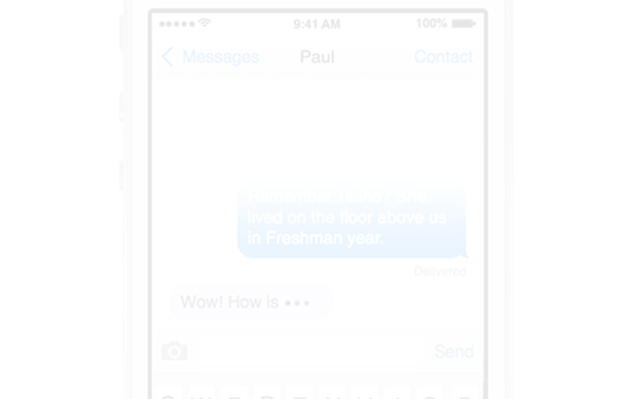
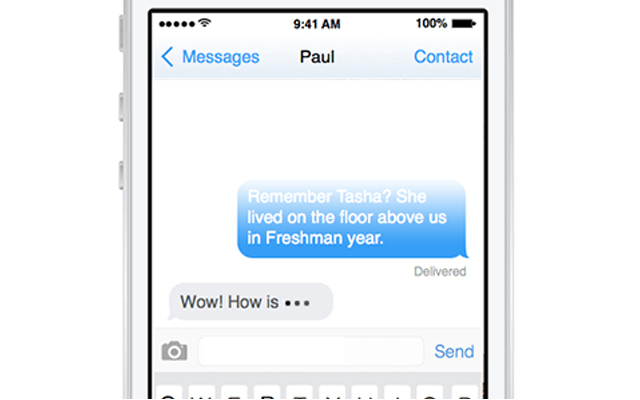
mostly done

Changed region(s): [[0.1875, 0.0, 0.8125, 1.0], [0.2812, 0.72, 0.5, 0.78], [0.4688, 0.12, 0.5312, 0.18]]

diff --git a/index.html b/index.html
@@ -21,6 +21,7 @@
 	<!-- start-smooth-scrolling -->
 		<script type="text/javascript" src="js/move-top.js"></script>
 		<script type="text/javascript" src="js/easing.js"></script>
+		<script type="text/javascript" src="js/jquery.waypoints.min.js"></script>
 		<script type="text/javascript">
 			jQuery(document).ready(function($) {
 				$(".scroll").click(function(event){		
@@ -67,8 +68,8 @@
 					</div> 
 				</div>       	  
 			</div>
-			<!---start-click-drop-down-menu----->
-			        <!----start-dropdown--->
+			<!-- start-click-drop-down-menu -->
+			        <!-- start-dropdown --->
 			         <script type="text/javascript">
 						var $ = jQuery.noConflict();
 							$(function() {
@@ -90,18 +91,18 @@
 												
 						});
 					</script>
-			<!---//End-click-drop-down-menu----->
+			<!---//End-click-drop-down-menu-->
 			<div class="clearfix"> </div>
 		</div>
 		<div class="banner-info">
 			<div class="banner-left">
-				<img src="images/1.png" alt=""/>
+				<img class="profilepic faded" src="images/1.png" alt=""/>
 			</div>
-			<div class="banner-right">
+			<div class="banner-right faded">
 				<h1>HI, I'M ANDREW!</h1>
 				<div class="border"></div>
-				<h2>I am currently a 4th year student studying<br> Electronic and Information Engineering<br> at Imperial College London.</h2>
-				<a href="andrewli-cv.pdf">DOWNLOAD MY RESUME</a>
+				<h2 class="smallintro faded">I am currently a 4th year student studying<br> Electronic and Information Engineering<br> at Imperial College London.</h2>
+				<a class="topcv faded" href="andrewli-cv.pdf">DOWNLOAD MY RESUME</a>
 			</div>
 			<div class="clearfix"></div>
 		</div>
@@ -113,17 +114,17 @@
 <div class="about text-center" id="about">
 	<div class="container">
 		<div class="row">
-			<div class="col-md-5 about-title">
+			<div class="col-md-5 about-title faded">
 				<h3>ABOUT ME</h3>
 				<div class="strip text-center"><img src="images/about.png" alt=" "/></div>
 			</div>
-			<div class="col-md-7">
-				<p>I am an engineering student and avid techie. Born in Montreal, Canada, I grew up with a very international background having also lived in the San Francisco Bay Area and Beijing before moving to London to study at Imperial College London. With this, I am lucky to be able to have a network which spans the globe.</p>
-				<p>I am deeply passionate about everything that’s happening in the tech world! I am often found lost in discussion talking to my peers and colleagues about the impact of technology, what the future may look like, and the socialogical implications of technology. I am especially interested in the human-centric side of technology and its sociological effects.</p>
-				<p>Throughout my studies, I always strive to develop the skills required for the world of tomorrow, taking interest in courses such as <strong>machine learning, computer vision &amp pattern recognition, user-centered information systems, and human-centered robotics</strong>. I also aim to apply these skills by working on various group and personal projects in my spare time.</p>
-				<p>As an engineer, the phrase “knowledge is power” holds very true to my belief, as with knowledge, we are truly empowered by transforming abstract concepts and ideas into tangible reality. I believe that the endeavour of human ingenuity is something that holds true beauty, and aim to make use of my knowledge and experience to take part in shaping our fascinating world.</p>
-				<p>Interested in hiring me? Take a look at some of my work and experience bellow!</p>
-				<ul>
+			<div class="col-md-7 about-text">
+				<p class="faded">I am an engineering student and avid techie. Born in Montreal, Canada, I grew up with a very international background having also lived in the San Francisco Bay Area and Beijing before moving to London to study at Imperial College London. With this, I am lucky to be able to have a network which spans the globe.</p>
+				<p class="faded">I am deeply passionate about everything that’s happening in the tech world! I am often found lost in discussion talking to my peers and colleagues about the impact of technology, what the future may look like, and the socialogical implications of technology. I am especially interested in the human-centric side of technology and its sociological effects.</p>
+				<p class="faded">Throughout my studies, I always strive to develop the skills required for the world of tomorrow, taking interest in courses such as <strong>machine learning, computer vision &amp pattern recognition, user-centered information systems, and human-centered robotics</strong>. I also aim to apply these skills by working on various group and personal projects in my spare time.</p>
+				<p class="faded">As an engineer, the phrase “knowledge is power” holds very true to my belief, as with knowledge, we are truly empowered by transforming abstract concepts and ideas into tangible reality. I believe that the endeavour of human ingenuity is something that holds true beauty, and aim to make use of my knowledge and experience to take part in shaping our fascinating world.</p>
+				<p class="faded">Interested in hiring me? Take a look at some of my work and experience bellow!</p>
+				<ul class="socialmedia faded">
 					<li><a class="fb" href="https://www.facebook.com/andrewliyw"></a></li>
 					<li><a class="gh" href="https://github.com/al2114/"></a></li>
 					<li><a class="in" href="https://www.linkedin.com/in/andrew-li-2b372710b/"></a></li>
@@ -142,15 +143,15 @@
 <!--work-->
 <div class="gallery-section text-center" id="career">
 	<div class="container">
-		<div class="work-info">
+		<div class="work-info faded">
 			<h3>WORK EXPERIENCE</h3>
+			<div class="strip text-center"><img src="images/work.png" alt=" "/></div>
 		</div>
-		<div class="strip text-center"><img src="images/work.png" alt=" "/></div>
 		<div class="work-grids">
 			<!-- <div class="row"> -->
 				<div class="col-md-1 col-lg-1"><p></p></div>
 				<div class="col-md-5 col-lg-5">
-					<div class="work-grid">
+					<div class="work-grid faded">
 						<h3>2016 Summer</h3>
 						<div class="work-grid-info">
 							<a href="http://borqs.com/">
@@ -165,7 +166,7 @@
 					</div>
 				</div>
 				<div class="col-md-5 col-lg-5">
-					<div class="work-grid">
+					<div class="work-grid faded">
 						<h3>2017 Summer</h3>
 						<div class="work-grid-info">
 							<a href="http://en.cloudminds.com/">
@@ -189,13 +190,16 @@
 <!--portfolio-->
 <div class="work-experience text-center" id="projects">
 	<div class="container">
-		<h3>PROJECTS</h3>
-		<div class="strip text-center"><img src="images/port.png" alt=" "/></div>
-		<p>Bellow are some of my current and past projects I've worked on either as part of my course of studies, or in my own spare time. Hover over the images for slightly more detailed descriptions of each project. If you're interested in or would like to learn more about any of these works, feel free to contact me and I'd be happy to speak with you!</p>
+		<div class="projects-title faded">
+			<h3>PROJECTS</h3>
+			<div class="strip text-center"><img src="images/port.png" alt=" "/></div>
+		</div>
+
+		<p class="projects-desc faded">Bellow are some of my current and past projects I've worked on either as part of my course of studies, or in my own spare time. Hover over the images for slightly more detailed descriptions of each project. If you're interested in or would like to learn more about any of these works, feel free to contact me and I'd be happy to speak with you!</p>
 	</div>
 	<!-- <div class="projectlist container"> -->
 	<div class="project-list">
-		<div class="project-item">
+		<div class="project-item faded">
 			<div class="container">
 				<div class="col-md-5 project-title">
 					<h3>Luko.hi</h3>
@@ -211,7 +215,7 @@
 				</div>
 			</div>
 		</div>
-		<div class="project-item">
+		<div class="project-item faded">
 			<div class="container">
 				<div class="col-md-7 project-desc">
 					<div class="project-desc-container">
@@ -227,7 +231,7 @@
 				</div>
 			</div>
 		</div>
-		<div class="project-item">
+		<div class="project-item faded">
 			<div class="container">
 				<div class="col-md-5 project-title">
 					<h3>Eurobot 2017</h3>
@@ -238,7 +242,7 @@
 					<div class="project-desc-container">
 						<p style="font-size: 14px; color: #121212; padding:0px 15px 0px 15px">
 
-							I took part in this year's Eurobot competition as a member of the Imperial College Robotic Society team. Eurobot is an annual competition where teams from universities across Europe build robots to compete autonomously against each other in a task-based arena, with points award for completing different tasks within the arena's boundaries. This year, the competition's theme was Moon Village, and the primary task involved gathering and collecting various "lunar objects" within the provided time limit. We decided to challenge ourselves by creating an omnidirectional robot using three omni wheels. The robot utilises a combination of RaspberryPis, Arduinos, and mbeds to drive its various functions including motor control, arm control, localisation, path planning and collision detection. Our robot uses odometry data, computer vision triangulation (using chilitag beacons) and kalman filtering to provide localisation information, which it makes use of to navigate throughout the arena. Utilising a three-wheel omnidirectional drive proved to be challenging, and even after a lot of effort put into tuning motor controllers, still resulted in suboptimal motion when compared to many of the other robots. Nonetheless, using three-wheeled omnidirectional drive had never been seen before on the competition, and our implementation garnered quite a decent amount of interest during the event.
+							I participated in this year's Eurobot competition as a member of the Imperial College Robotic Society team. Eurobot is an annual competition where teams from universities across Europe build robots to compete autonomously against each other by completing tasks and scoring points in a time-limited arena environment. This year, the competition's theme was Moon Village, and the primary task involved gathering and collecting various "lunar objects" within the provided time limit. We decided to challenge ourselves by creating an omnidirectional robot using three omni wheels. The robot utilises a combination of RaspberryPis, Arduinos, and mbeds to drive its various functions including motor control, arm control, localisation, path planning and collision detection. Our robot uses odometry data, computer vision triangulation (using chilitag beacons) and kalman filtering to provide localisation information, which it makes use of to navigate throughout the arena. Utilising a three-wheel omnidirectional drive proved to be challenging, and even after a lot of effort put into tuning motor controllers, still resulted in suboptimal motion when compared to many of the other robots. Nonetheless, using three-wheeled omnidirectional drive had never been seen before on the competition, and our implementation garnered quite a decent amount of interest during the event.
 
 						</p>
 					</div>
@@ -246,7 +250,7 @@
 				</div>
 			</div>
 		</div>
-		<div class="project-item">
+		<div class="project-item faded">
 			<div class="container">
 				<div class="col-md-7 project-desc">
 					<div class="project-desc-container">
@@ -262,7 +266,7 @@
 				</div>
 			</div>
 		</div>
-		<div class="project-item">
+		<div class="project-item faded">
 			<div class="container">
 				<div class="col-md-5 project-title">
 					<h3>Ephemeral</h3>
@@ -272,13 +276,13 @@
 				<div class="col-md-7 project-desc">
 					<div class="project-desc-container">
 						<p style="font-size: 14px; color: #121212; padding:60px 15px 0px 15px">
-							The Plantarium Nova is a temperature and humidity controlled capsule designed for home plant growing and monitoring developed by Team Icarus. The device runs on a ESP8266 WiFi module and interfaces with a series of sensors including LED lights, a temperature sensor, a humidity sensor, a humidifier, and a temperature regulator. This allows for the device to create a closed loop control system to regulate the capsule and provide the optimal climate profile for a given plant. Additionally, the device connects to an MQTT broker which allows for it to communicate with our backend system, enabling IoT functionality. A front-end control panel interface was developed using the D3.js framework to graphically visualise the sensor readings in real time, with the side panel enabling users to create profiles for different temperature/humidity settings. I was primarily responsible for the development of the web control interface and backend system.
+							Ephemeral is an app that a few friends and I had worked on during IC Hack 2017. It is a textmessaging platform trying to emulate the way individuals communicate in spoken conversation, where information is streamlined and words are temporary. As such, your message begins appearing on your correspondent's screen as soon as you begin your first keystroke, and subsequently the message will begin to disappear as soon as the full message has been delivered and read. The aim is to create a messaging platform that will allow for more genuine conversations to take place between individual, with the added benefit of privacy offered by typing your conversation (i.e. in public spaces). We also took this as a learning opportunity, and set ourselves the constraint of developing the entire platform using just Swift, utilising Perfect, a server-side Swift framework to develop our app's backend.
 						</p>
 					</div>
 				</div>
 			</div>
 		</div>
-		<div class="project-item">
+		<div class="project-item faded">
 			<div class="container">
 				<div class="col-md-7 project-desc">
 					<div class="project-desc-container">
@@ -288,7 +292,7 @@
 					</div>
 				</div>
 				<div class="col-md-5 project-title">
-					<h3>FPGA Object Mapping</h3>
+					<h3>FPGA Object Detection</h3>
 					<hr style="border-top: 1px solid #8c8b8b; width: 70%; margin-bottom: -20px; margin-top: 30px;">
 					<p>Method of detecting object using colour-space mapping</p>
 				</div>
@@ -373,6 +377,12 @@
 								
 			});
 	</script>
+
 <!-- //here ends scrolling icon -->
 </body>
+
+	<script type="text/javascript" src="js/fade-elements.js"></script>
+
+
 </html>
+

diff --git a/js/jquery.waypoints.min.js b/js/jquery.waypoints.min.js
@@ -1,0 +1,7 @@
+/*!
+Waypoints - 4.0.1
+Copyright © 2011-2016 Caleb Troughton
+Licensed under the MIT license.
+https://github.com/imakewebthings/waypoints/blob/master/licenses.txt
+*/
+!function(){"use strict";function t(o){if(!o)throw new Error("No options passed to Waypoint constructor");if(!o.element)throw new Error("No element option passed to Waypoint constructor");if(!o.handler)throw new Error("No handler option passed to Waypoint constructor");this.key="waypoint-"+e,this.options=t.Adapter.extend({},t.defaults,o),this.element=this.options.element,this.adapter=new t.Adapter(this.element),this.callback=o.handler,this.axis=this.options.horizontal?"horizontal":"vertical",this.enabled=this.options.enabled,this.triggerPoint=null,this.group=t.Group.findOrCreate({name:this.options.group,axis:this.axis}),this.context=t.Context.findOrCreateByElement(this.options.context),t.offsetAliases[this.options.offset]&&(this.options.offset=t.offsetAliases[this.options.offset]),this.group.add(this),this.context.add(this),i[this.key]=this,e+=1}var e=0,i={};t.prototype.queueTrigger=function(t){this.group.queueTrigger(this,t)},t.prototype.trigger=function(t){this.enabled&&this.callback&&this.callback.apply(this,t)},t.prototype.destroy=function(){this.context.remove(this),this.group.remove(this),delete i[this.key]},t.prototype.disable=function(){return this.enabled=!1,this},t.prototype.enable=function(){return this.context.refresh(),this.enabled=!0,this},t.prototype.next=function(){return this.group.next(this)},t.prototype.previous=function(){return this.group.previous(this)},t.invokeAll=function(t){var e=[];for(var o in i)e.push(i[o]);for(var n=0,r=e.length;r>n;n++)e[n][t]()},t.destroyAll=function(){t.invokeAll("destroy")},t.disableAll=function(){t.invokeAll("disable")},t.enableAll=function(){t.Context.refreshAll();for(var e in i)i[e].enabled=!0;return this},t.refreshAll=function(){t.Context.refreshAll()},t.viewportHeight=function(){return window.innerHeight||document.documentElement.clientHeight},t.viewportWidth=function(){return document.documentElement.clientWidth},t.adapters=[],t.defaults={context:window,continuous:!0,enabled:!0,group:"default",horizontal:!1,offset:0},t.offsetAliases={"bottom-in-view":function(){return this.context.innerHeight()-this.adapter.outerHeight()},"right-in-view":function(){return this.context.innerWidth()-this.adapter.outerWidth()}},window.Waypoint=t}(),function(){"use strict";function t(t){window.setTimeout(t,1e3/60)}function e(t){this.element=t,this.Adapter=n.Adapter,this.adapter=new this.Adapter(t),this.key="waypoint-context-"+i,this.didScroll=!1,this.didResize=!1,this.oldScroll={x:this.adapter.scrollLeft(),y:this.adapter.scrollTop()},this.waypoints={vertical:{},horizontal:{}},t.waypointContextKey=this.key,o[t.waypointContextKey]=this,i+=1,n.windowContext||(n.windowContext=!0,n.windowContext=new e(window)),this.createThrottledScrollHandler(),this.createThrottledResizeHandler()}var i=0,o={},n=window.Waypoint,r=window.onload;e.prototype.add=function(t){var e=t.options.horizontal?"horizontal":"vertical";this.waypoints[e][t.key]=t,this.refresh()},e.prototype.checkEmpty=function(){var t=this.Adapter.isEmptyObject(this.waypoints.horizontal),e=this.Adapter.isEmptyObject(this.waypoints.vertical),i=this.element==this.element.window;t&&e&&!i&&(this.adapter.off(".waypoints"),delete o[this.key])},e.prototype.createThrottledResizeHandler=function(){function t(){e.handleResize(),e.didResize=!1}var e=this;this.adapter.on("resize.waypoints",function(){e.didResize||(e.didResize=!0,n.requestAnimationFrame(t))})},e.prototype.createThrottledScrollHandler=function(){function t(){e.handleScroll(),e.didScroll=!1}var e=this;this.adapter.on("scroll.waypoints",function(){(!e.didScroll||n.isTouch)&&(e.didScroll=!0,n.requestAnimationFrame(t))})},e.prototype.handleResize=function(){n.Context.refreshAll()},e.prototype.handleScroll=function(){var t={},e={horizontal:{newScroll:this.adapter.scrollLeft(),oldScroll:this.oldScroll.x,forward:"right",backward:"left"},vertical:{newScroll:this.adapter.scrollTop(),oldScroll:this.oldScroll.y,forward:"down",backward:"up"}};for(var i in e){var o=e[i],n=o.newScroll>o.oldScroll,r=n?o.forward:o.backward;for(var s in this.waypoints[i]){var a=this.waypoints[i][s];if(null!==a.triggerPoint){var l=o.oldScroll<a.triggerPoint,h=o.newScroll>=a.triggerPoint,p=l&&h,u=!l&&!h;(p||u)&&(a.queueTrigger(r),t[a.group.id]=a.group)}}}for(var c in t)t[c].flushTriggers();this.oldScroll={x:e.horizontal.newScroll,y:e.vertical.newScroll}},e.prototype.innerHeight=function(){return this.element==this.element.window?n.viewportHeight():this.adapter.innerHeight()},e.prototype.remove=function(t){delete this.waypoints[t.axis][t.key],this.checkEmpty()},e.prototype.innerWidth=function(){return this.element==this.element.window?n.viewportWidth():this.adapter.innerWidth()},e.prototype.destroy=function(){var t=[];for(var e in this.waypoints)for(var i in this.waypoints[e])t.push(this.waypoints[e][i]);for(var o=0,n=t.length;n>o;o++)t[o].destroy()},e.prototype.refresh=function(){var t,e=this.element==this.element.window,i=e?void 0:this.adapter.offset(),o={};this.handleScroll(),t={horizontal:{contextOffset:e?0:i.left,contextScroll:e?0:this.oldScroll.x,contextDimension:this.innerWidth(),oldScroll:this.oldScroll.x,forward:"right",backward:"left",offsetProp:"left"},vertical:{contextOffset:e?0:i.top,contextScroll:e?0:this.oldScroll.y,contextDimension:this.innerHeight(),oldScroll:this.oldScroll.y,forward:"down",backward:"up",offsetProp:"top"}};for(var r in t){var s=t[r];for(var a in this.waypoints[r]){var l,h,p,u,c,d=this.waypoints[r][a],f=d.options.offset,w=d.triggerPoint,y=0,g=null==w;d.element!==d.element.window&&(y=d.adapter.offset()[s.offsetProp]),"function"==typeof f?f=f.apply(d):"string"==typeof f&&(f=parseFloat(f),d.options.offset.indexOf("%")>-1&&(f=Math.ceil(s.contextDimension*f/100))),l=s.contextScroll-s.contextOffset,d.triggerPoint=Math.floor(y+l-f),h=w<s.oldScroll,p=d.triggerPoint>=s.oldScroll,u=h&&p,c=!h&&!p,!g&&u?(d.queueTrigger(s.backward),o[d.group.id]=d.group):!g&&c?(d.queueTrigger(s.forward),o[d.group.id]=d.group):g&&s.oldScroll>=d.triggerPoint&&(d.queueTrigger(s.forward),o[d.group.id]=d.group)}}return n.requestAnimationFrame(function(){for(var t in o)o[t].flushTriggers()}),this},e.findOrCreateByElement=function(t){return e.findByElement(t)||new e(t)},e.refreshAll=function(){for(var t in o)o[t].refresh()},e.findByElement=function(t){return o[t.waypointContextKey]},window.onload=function(){r&&r(),e.refreshAll()},n.requestAnimationFrame=function(e){var i=window.requestAnimationFrame||window.mozRequestAnimationFrame||window.webkitRequestAnimationFrame||t;i.call(window,e)},n.Context=e}(),function(){"use strict";function t(t,e){return t.triggerPoint-e.triggerPoint}function e(t,e){return e.triggerPoint-t.triggerPoint}function i(t){this.name=t.name,this.axis=t.axis,this.id=this.name+"-"+this.axis,this.waypoints=[],this.clearTriggerQueues(),o[this.axis][this.name]=this}var o={vertical:{},horizontal:{}},n=window.Waypoint;i.prototype.add=function(t){this.waypoints.push(t)},i.prototype.clearTriggerQueues=function(){this.triggerQueues={up:[],down:[],left:[],right:[]}},i.prototype.flushTriggers=function(){for(var i in this.triggerQueues){var o=this.triggerQueues[i],n="up"===i||"left"===i;o.sort(n?e:t);for(var r=0,s=o.length;s>r;r+=1){var a=o[r];(a.options.continuous||r===o.length-1)&&a.trigger([i])}}this.clearTriggerQueues()},i.prototype.next=function(e){this.waypoints.sort(t);var i=n.Adapter.inArray(e,this.waypoints),o=i===this.waypoints.length-1;return o?null:this.waypoints[i+1]},i.prototype.previous=function(e){this.waypoints.sort(t);var i=n.Adapter.inArray(e,this.waypoints);return i?this.waypoints[i-1]:null},i.prototype.queueTrigger=function(t,e){this.triggerQueues[e].push(t)},i.prototype.remove=function(t){var e=n.Adapter.inArray(t,this.waypoints);e>-1&&this.waypoints.splice(e,1)},i.prototype.first=function(){return this.waypoints[0]},i.prototype.last=function(){return this.waypoints[this.waypoints.length-1]},i.findOrCreate=function(t){return o[t.axis][t.name]||new i(t)},n.Group=i}(),function(){"use strict";function t(t){this.$element=e(t)}var e=window.jQuery,i=window.Waypoint;e.each(["innerHeight","innerWidth","off","offset","on","outerHeight","outerWidth","scrollLeft","scrollTop"],function(e,i){t.prototype[i]=function(){var t=Array.prototype.slice.call(arguments);return this.$element[i].apply(this.$element,t)}}),e.each(["extend","inArray","isEmptyObject"],function(i,o){t[o]=e[o]}),i.adapters.push({name:"jquery",Adapter:t}),i.Adapter=t}(),function(){"use strict";function t(t){return function(){var i=[],o=arguments[0];return t.isFunction(arguments[0])&&(o=t.extend({},arguments[1]),o.handler=arguments[0]),this.each(function(){var n=t.extend({},o,{element:this});"string"==typeof n.context&&(n.context=t(this).closest(n.context)[0]),i.push(new e(n))}),i}}var e=window.Waypoint;window.jQuery&&(window.jQuery.fn.waypoint=t(window.jQuery)),window.Zepto&&(window.Zepto.fn.waypoint=t(window.Zepto))}();

diff --git a/js/fade-elements.js b/js/fade-elements.js
@@ -1,0 +1,77 @@
+// $( document ).ready(function(){
+
+// 	$( ".profilepic" ).animate({marginTop: '+=20px', opacity: 1}, t_wait,
+// 		function(){
+
+// 	$( ".banner-right" ).animate({marginTop: '+=20px', opacity: 1}, t_wait);
+	
+
+// 	});
+
+// });
+
+about_load = false;
+career_load = false;
+projects_load = false;
+t_wait = 1000;
+
+window.onload = function(){
+	$( ".faded" ).animate({marginTop: '-=20px'}, 0);
+	$( ".profilepic" ).animate({marginTop: '+=20px', opacity: 1}, t_wait, function(){
+		$( ".banner-right" ).animate({marginTop: '+=20px', opacity: 1}, t_wait, function(){
+			$( ".smallintro" ).animate({marginTop: '+=20px', opacity: 1}, t_wait, function(){
+				$( ".topcv" ).animate({marginTop: '+=20px', opacity: 1}, t_wait, function(){					
+				});
+			});
+		});
+		$("#about").waypoint(function(){
+			if(!about_load){
+				about_load = true;
+				$( ".about-title" ).animate({marginTop: '+=20px', opacity: 1}, t_wait, function(){
+
+					$( ".about-text p" ).each(function(i){
+						delay=(i)*t_wait
+						$(this).delay(delay).animate({marginTop: '+=20px', opacity: 1}, t_wait, function(){
+							if(i==4){
+								$(".socialmedia").animate({marginTop: '+=20px', opacity: 1}, t_wait)
+							}
+						});
+					});
+				});
+			}
+		}, { offset: '75%'});
+
+		$("#career").waypoint(function(){
+			if(!career_load){
+				career_load = true;
+				$( ".work-info" ).animate({marginTop: '+=20px', opacity: 1}, t_wait, function(){
+
+					$( ".work-grid" ).each(function(i){
+						delay=(i)*t_wait
+						$(this).delay(delay).animate({marginTop: '+=20px', opacity: 1}, t_wait)
+					});
+				});
+			}
+		}, { offset: '75%'});
+
+		$("#projects").waypoint(function(){
+			if(!projects_load){
+				projects_load = true;
+				$( ".projects-title" ).animate({marginTop: '+=20px', opacity: 1}, t_wait, function(){
+					$( ".projects-desc" ).animate({marginTop: '+=20px', opacity: 1}, t_wait, function(){
+						$( ".project-item" ).each(function(i){
+							delay=(i)*t_wait
+							$(this).delay(delay).animate({marginTop: '+=20px', opacity: 1}, t_wait)
+						});
+					});
+
+				});
+			}
+		}, { offset: '75%'});
+
+
+
+	});
+
+};
+

diff --git a/css/style.css b/css/style.css
@@ -3629,11 +3629,11 @@ a.callbacks_nav.callbacks1_nav.prev {
 }
 
 .project-item:nth-child(1) .project-desc-container {
-  background: url(../images/project-1.jpg) no-repeat -50px 0px;
+  background: url(../images/project-1.jpg) no-repeat 0px 0px;
 }
 
 .project-item:nth-child(1) .project-desc:hover .project-desc-container {
-  background: url(../images/project-1h.jpg) no-repeat -50px 0px;
+  background: url(../images/project-1h.jpg) no-repeat 0px 0px;
   -webkit-backface-visibility: hidden;
 }
 
@@ -3698,3 +3698,7 @@ a.callbacks_nav.callbacks1_nav.prev {
 .project-desc:hover p {
   opacity: 1;
 }
+
+.faded {
+  opacity: 0;
+  }
